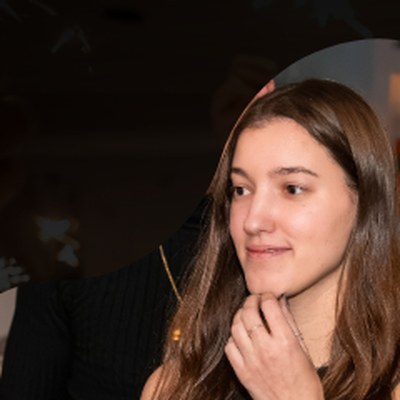
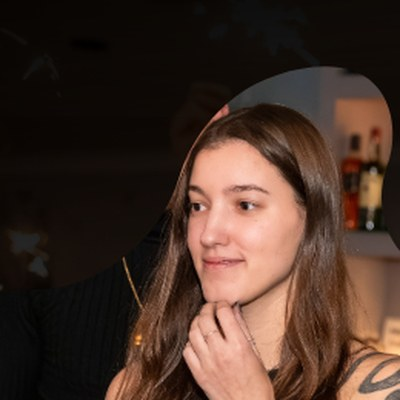
Команда: порядок Katya-Roman-Kate, кляксові рамки, Кейт по центру

diff --git a/index.html b/index.html
@@ -382,11 +382,18 @@ h2.sec-title em{font-style:normal;color:var(--purple2)}
 }
 .member:hover{transform:translateY(-12px) rotate(var(--r,0deg));border-color:var(--yellow)}
 .member .ava{
-  width:140px;height:140px;margin:0 auto 20px;border-radius:50%;
+  width:150px;height:150px;margin:0 auto 20px;
+  border-radius:var(--blob,64% 36% 58% 42% / 44% 60% 40% 56%);
   background:radial-gradient(circle at 35% 30%,#ffe873,var(--yellow));
-  padding:5px;box-shadow:0 14px 40px rgba(255,209,0,.3);transition:transform .5s;
+  padding:5px;box-shadow:0 14px 40px rgba(255,209,0,.3);
+  transition:transform .5s,border-radius .6s;
+  animation:blobWobble 9s ease-in-out infinite;
 }
-.member .ava img{width:100%;height:100%;object-fit:cover;border-radius:50%}
+.member .ava img{width:100%;height:100%;object-fit:cover;border-radius:inherit}
+@keyframes blobWobble{
+  0%,100%{border-radius:var(--blob,58% 42% 55% 45% / 52% 58% 42% 48%)}
+  50%{border-radius:var(--blob2,45% 55% 48% 52% / 58% 45% 55% 42%)}
+}
 .member:hover .ava{transform:scale(1.1) rotate(8deg)}
 .member h3{font-size:22px;margin-bottom:6px}
 .member .role{font-family:'Caveat';font-size:24px;color:var(--purple2)}
@@ -725,23 +732,23 @@ footer .script{color:var(--yellow);font-size:24px;display:block;margin-bottom:8p
   <span class="sec-label" style="display:block;text-align:center">хто за цим стоїть?</span>
   <h2 class="sec-title" style="text-align:center">Три мозки <em>за веселощами</em></h2>
   <div class="team">
-    <div class="member reveal" style="--r:-2deg">
-      <div class="ava"><img src="photos/team-kate.jpg" alt="Kate"></div>
-      <h3>Kate</h3>
-      <div class="role">генератор ідей</div>
-      <p>Вигадує теми, від яких неможливо відмовитися, і стежить, щоб кожна гра була особливою.</p>
-    </div>
     <div class="member reveal" style="--r:2deg">
-      <div class="ava"><img src="photos/team-katya.jpg" alt="Katya"></div>
+      <div class="ava" style="--blob:67% 33% 61% 39% / 41% 63% 37% 59%;--blob2:42% 58% 35% 65% / 60% 38% 62% 40%"><img src="photos/team-katya.jpg" alt="Katya"></div>
       <h3>Katya</h3>
       <div class="role">душа команди</div>
       <p>Тримає атмосферу, зустрічає гостей і робить так, щоб усі почувалися своїми.</p>
     </div>
     <div class="member reveal" style="--r:-1.5deg">
-      <div class="ava"><img src="photos/team-roman.jpg" alt="Roman"></div>
+      <div class="ava" style="--blob:38% 62% 55% 45% / 64% 36% 60% 40%;--blob2:62% 38% 42% 58% / 38% 64% 40% 60%"><img src="photos/team-roman.jpg" alt="Roman"></div>
       <h3>Roman</h3>
       <div class="role">майстер шоу</div>
       <p>Відповідає за драйв, музику та той самий момент «вау» на кожному івенті.</p>
+    </div>
+    <div class="member reveal" style="--r:-2deg">
+      <div class="ava" style="--blob:59% 41% 36% 64% / 43% 62% 38% 57%;--blob2:36% 64% 60% 40% / 62% 40% 58% 42%"><img src="photos/team-kate.jpg" alt="Kate"></div>
+      <h3>Kate</h3>
+      <div class="role">генератор ідей</div>
+      <p>Вигадує теми, від яких неможливо відмовитися, і стежить, щоб кожна гра була особливою.</p>
     </div>
   </div>
 </section>
